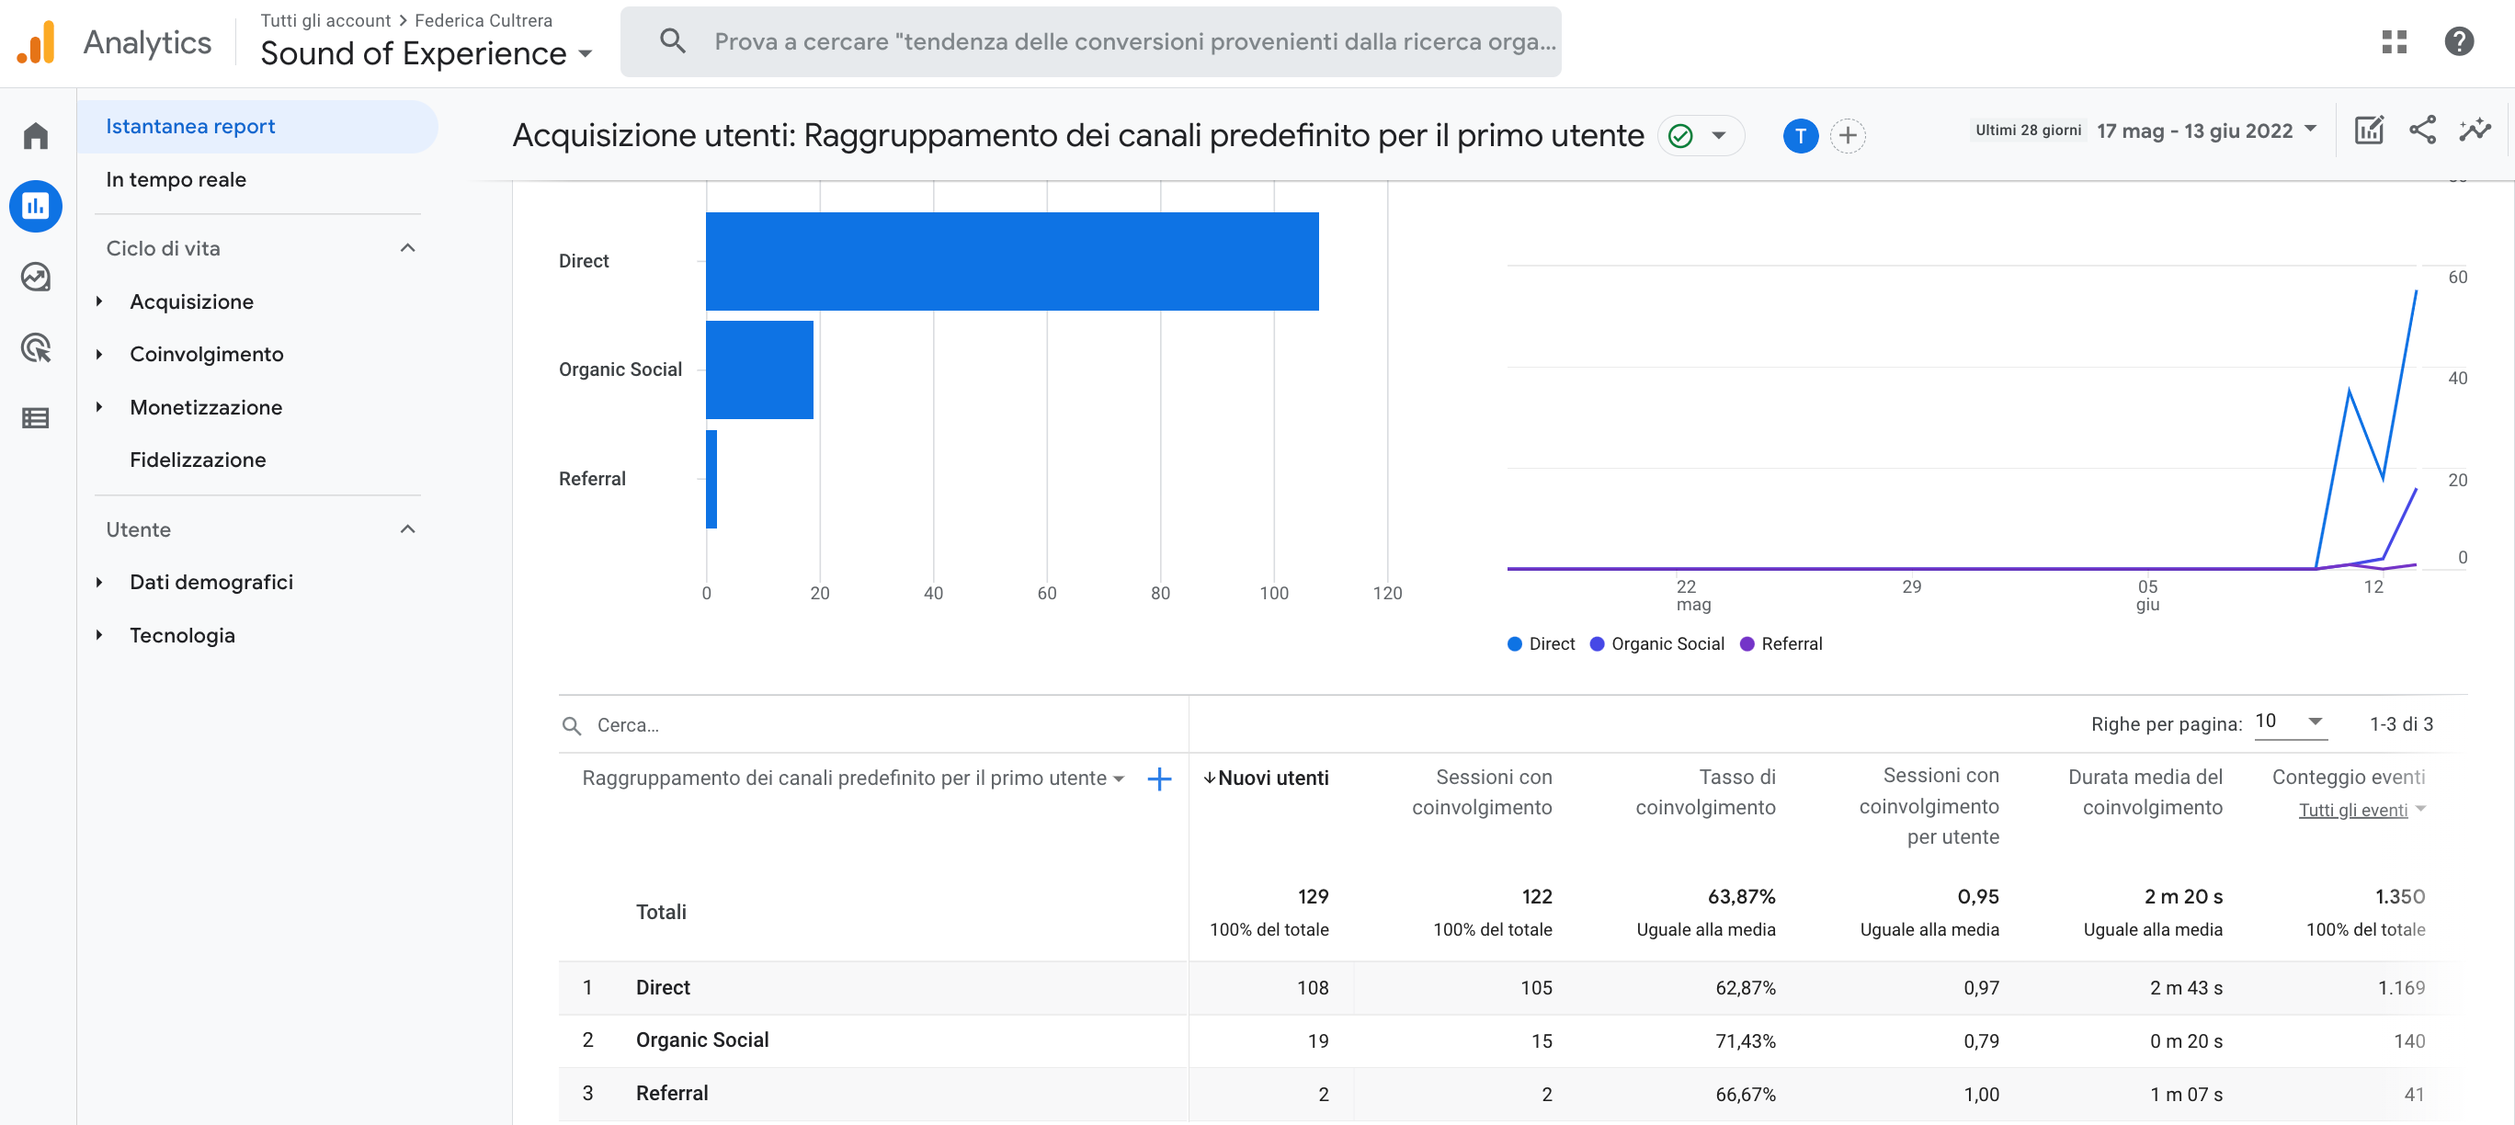
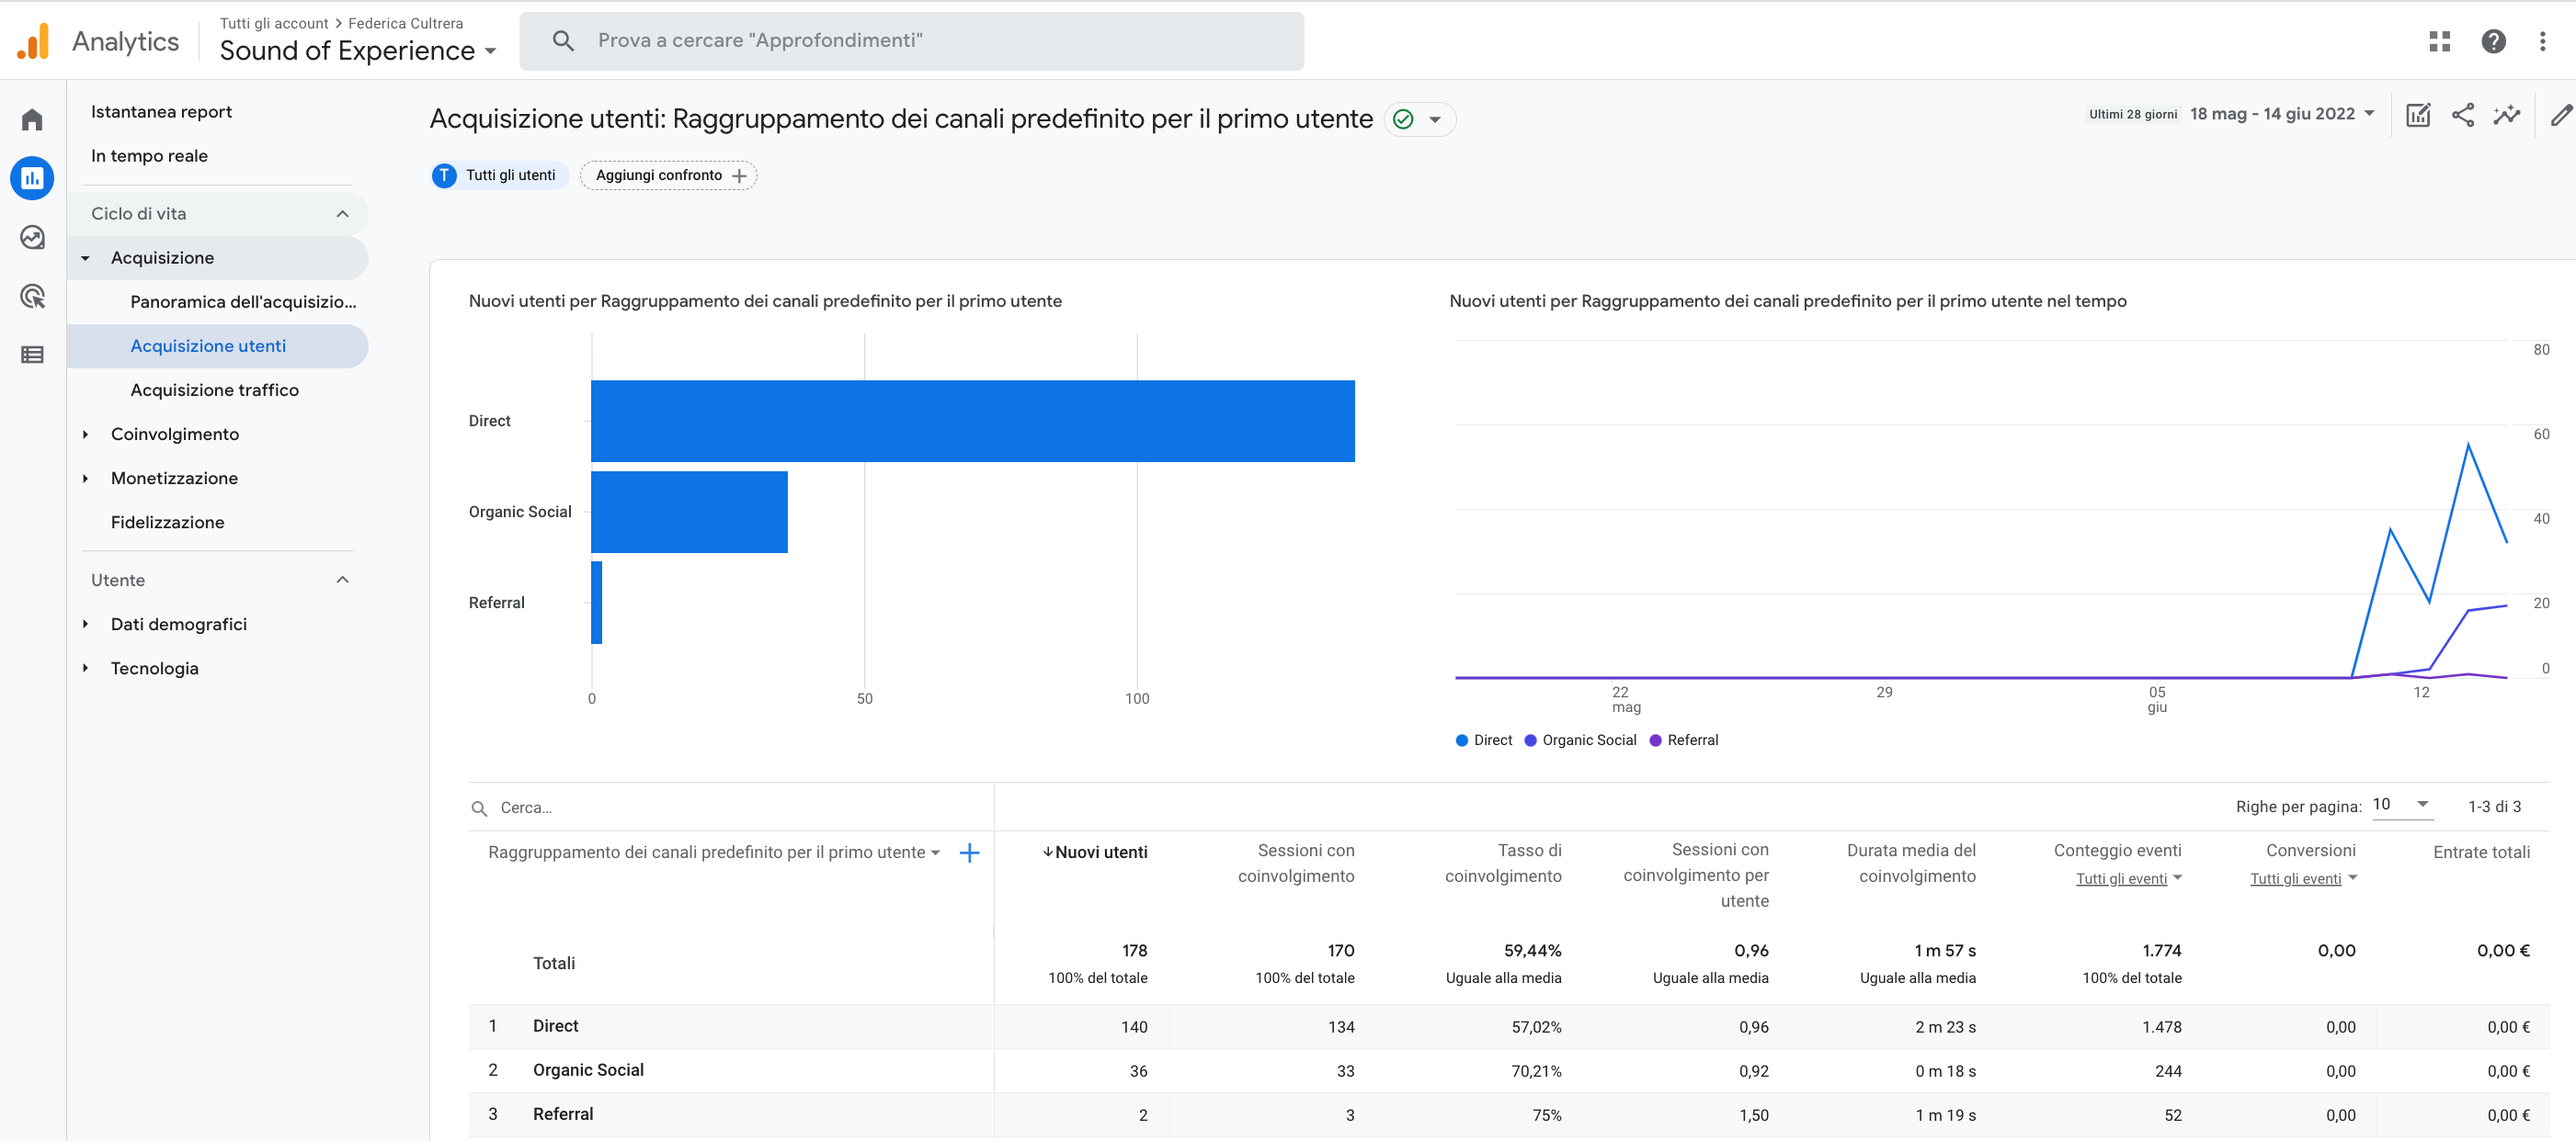
ultime

diff --git a/documentazione.html b/documentazione.html
@@ -62,7 +62,7 @@
 			<p>
 				Tra i competitors che abbiamo individuato troviamo Staimusic.com, un sito che propone playlist, articoli e interazioni tra gli utenti interessati e Pinterest, un'app/sito sviluppato interamente intorno alle immagini, idee e spunti d'ispirazione.
 				Staimusic.com risulta subito molto ricco di contenuti e risorse, oltre che ben organizzato sul piano della ricerca per tag, generi, classifiche, novità e playlist. Oltre alla vastità di contenuti e generi musicali, il sito presenta la possibilità di cambiare lingua (inglese , italiano e spagnolo) e documentarsi su temi sociali, culturali e politici in riferimento alla musica. 
-				Pinterest, con un'interfaccia semplice e intuitiva presenta un'ampissima gamma di immagini legate a parole chiave e tags, che le ricerche siano per pura fruzione visiva o per semplice ispirazione. 
+				Pinterest, con un'interfaccia semplice e intuitiva presenta un'ampissima gamma di immagini legate a parole chiave e tags, che le ricerche siano per pura fruizione visiva o per semplice ispirazione. 
 				Nel nostro progetto vogliamo unire queste due dimensioni (musicale e fotografica) attraverso le emozioni, che vengono messe da parte da entrambi i competitor, ma che stanno alla base di ciò che sono la musica e i ricordi.   
 			</p>
 			<h3> Struttura e Layout</h3>
@@ -79,12 +79,12 @@
 			</div>
 			<h4> Look and feel</h4>
 			<p>
-				• Il logo è stato realizzato con Canva e ripende il tema del "diario musicale", mentre il nome del sito nel logotipo è stato realizzato con il font "Alex Brush", in modo da riprendere la scrittura manuale in corsivo. <br>
+				• Il logo è stato realizzato con Canva e riprende il tema del "diario musicale", mentre il nome del sito nel logotipo è stato realizzato con il font "Alex Brush", in modo da riprendere la scrittura manuale in corsivo. <br>
 				• Abbiamo scelto di utilizzare come unico font "Joan" della font family serif per la stesura delle pagine web, in modo da renderle quanto più chiare e lineari possibile. <br>
 				• Per quanto riguarda i colori, abbiamo selezionato delle palette dalle gradazioni tenui/calde che ricordassero dei vecchi fogli di carta, come in un ambiente personale e vissuto. <br>
-				Abbiamo selezionato: per navabar e footer #ffefcc, per il background del body #fff7e6. 
+				Abbiamo selezionato: per navbar e footer #ffefcc, per il background del body #fff7e6. 
 				• Per i link audio abbiamo deciso di intervenire in 2 momenti: <br>
-				- link mai vistato: blue <br> 
+				- link mai visitato: blue <br> 
 				- link già visitato: purple <br>
 				• Tutte le immagini presenti sono state realizzate da noi e da tutti gli utenti che abbiamo coinvolto nella realizzazione del progetto; l'immagine del background dell'intestazione è stata composta e realizzata da noi appositamente per il sito.
 			</p>
@@ -93,7 +93,7 @@
 				Per la realizzazione del sito abbiamo utilizzato i linguaggi HTML e CSS e la libreria di Bootstrap per: navbar, footer e grid columns del body. Per aiutarci abbiamo anche seguito le indicazioni presenti nel sito WeSchool.com.
 				Per la realizzazione grafica dei wireframe ci siamo servite della piattaforma Canva. 
 				Google Font per titolo e testi, Color Shades per la scelta dei colori. 
-				Per la stesura e messa a punto dei codici abbiamo utilizzato SublimeText come editor di testo e GitHub per la pubblicazione. 
+				Per la stesura e messa a punto dei codici abbiamo utilizzato SublimeText come editor di testo e GitHub per la pubblicazione, mentre JavaScript per la funzione del button Iscriviti e MySQL per la creazione di un server.
 				Infine abbiamo collegato il sito a Google Analytics per monitorarne l'andamento.
 			</p>
 			<h3> Communication Strategy </h3>
@@ -122,7 +122,7 @@
 			</p>
 			<p>
 				Le persone hanno sempre paura o difficoltà a esprimere le loro emozioni, e quante volte è capitato che una canzone aiutasse qualcuno a capirsi, o a farsi capire?
-				Le emozioni, il ricordare, non sono argomenti di cui aver paura o di cui vergognarsi, ma troppo spesso vengono messe da parte e ignorate, rimangono inespresse, soprattutto nei mondo dei social.
+				Le emozioni, il ricordare, non sono argomenti di cui aver paura o di cui vergognarsi, ma troppo spesso vengono messe da parte e ignorate, rimangono inespresse, soprattutto nel mondo dei social.
 				Ciò che vorremmo spingere la gente a fare è proprio il raccontarsi attraverso uno dei mezzi più comuni e comunicativi: la musica.
 			</p>
 			<h4> Promozione</h4>
@@ -136,7 +136,7 @@
 				Il progetto realizzato ha raggiunto l'obiettivo di coinvolgere subito almeno le persone più vicine a noi, testando in questa prima fase il livello di coinvolgimento e apprezzamento dell'idea. <br>
 				Abbiamo raggiunto questo primo obiettivo tramite il semplice passaparola e creato successivamente la pagina Instagram che ci ha permesso di pubblicare i primi contenuti forniti da 30 utenti attivi nell'arco di due giorni, aumentare ulteriormente il numero di utenti coinvolti e riuscire a dimostrare così la realizzazione concreta della nostra idea di diario condiviso. <br>
 				Il nostro obiettivo su Instragram, inoltre, era quello di raggiungere almeno 50 follower e possiamo ritenerci soddisfatte dei dati raccolti tramite gli insights. <br>
-				Abbiamo monitorato l'andamento del sito tramite Google Analytics e raggiunto i 129 utenti singoli, la maggior parte hanno avuto accesso dall'URL condiviso da altri utenti. 
+				Abbiamo monitorato l'andamento del sito tramite Google Analytics e raggiunto i 178 utenti singoli, la maggior parte hanno avuto accesso dall'URL condiviso da altri utenti. 
 			</p>
 			<div class="risultati">
 				<img src="img/profilo.jpg" alt="profilo.jpg" class="valutazione">
@@ -150,7 +150,7 @@
 				<img src="img/impression.jpg" alt="impression.jpg" class="valu">
 			</div>
 			<div>
-				<img src="img/129.jpg" alt="129.jpg" class="google">
+				<img src="img/178.jpg" alt="178.jpg" class="google">
 				<img src="img/dispositiviutenti.jpg" alt="dispositiviutenti.jpg" class="google">
 				<img src="img/paesi.jpg" alt="paesi.jpg" class="google">
 			</div>

diff --git a/index.html b/index.html
@@ -194,7 +194,7 @@
 						CONTATTI
 					</div>
 					<div class="card-body">
-						<h5 class="card-title">Visita la nostra pagina instagram!</h5>
+						<h5 class="card-title">Visita la nostra pagina Instagram!</h5>
 						<p class="card-text">Seguici e inizia a far parte anche tu della nostra community.</p>
 						<a href="https://www.instagram.com/soundofexperience/" target="_blank">  <img src="img/icona96.png"> </a>  
 						<div>
